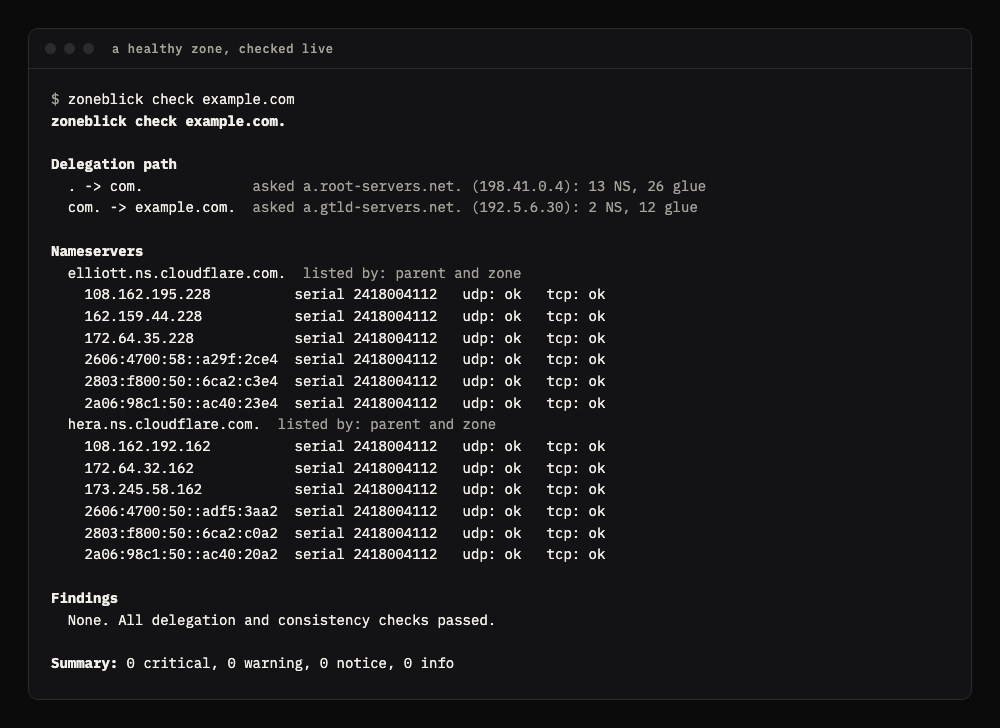
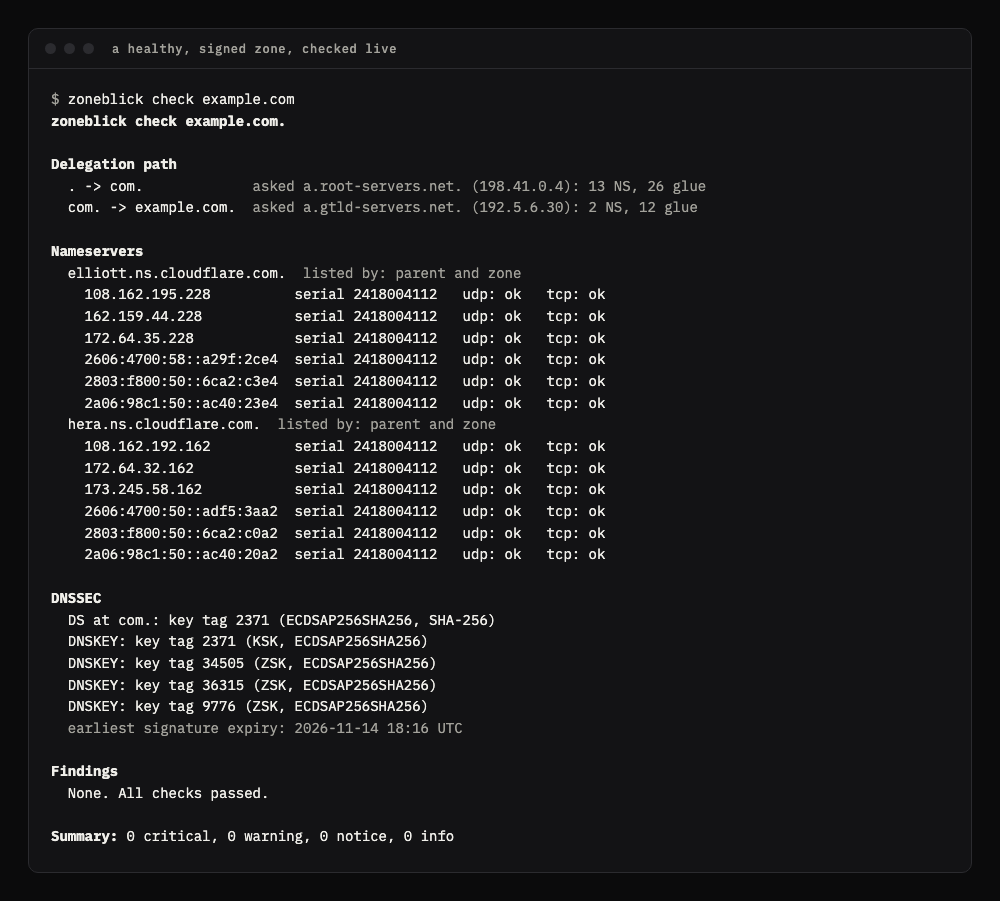
Release 0.3.0: DNSSEC checks (beta)

Changed region(s): [[0.031, 0.0302, 0.713, 0.9368]]

diff --git a/docs/index.html b/docs/index.html
@@ -403,7 +403,7 @@ footer .grid{row-gap:24px}
         <h2>Five kinds of trouble, one pass.</h2>
         <p class="intro">Each check has a stable ID, a severity, and the evidence behind it. No recursive resolver sits in the middle, so you see what the authoritative servers really say.</p>
         <p class="tier"><b>Light run</b><span>Hourly. Twenty-six checks across the whole fleet.</span></p>
-        <p class="tier"><b>Working today</b><span>Delegation and consistency: ten checks, in the <span class="mono">check</span> and <span class="mono">run</span> commands. With <span class="mono">run</span>, consistency covers every name you list. DNSSEC, mail and policy, and takeover are planned.</span></p>
+        <p class="tier"><b>Working today</b><span>Delegation, consistency and DNSSEC: fifteen checks, in the <span class="mono">check</span> and <span class="mono">run</span> commands. The DNSSEC checks are beta. With <span class="mono">run</span>, consistency covers every name you list. Mail and policy, and takeover, are planned.</span></p>
         <div class="checks">
           <article>
             <div class="label">DEL</div>
@@ -534,7 +534,7 @@ footer .grid{row-gap:24px}
         <div class="run two">
           <article class="wide">
             <h3>Download a binary</h3>
-            <p>Release <a href="https://github.com/cschweda/zoneblick/releases/tag/v0.2.0">v0.2.0</a> has ready-built binaries for Linux, macOS and Windows. Pick your system, paste the commands into a terminal, and the last line runs your first check. Each release also has a <span class="mono">SHA256SUMS</span> file; the <a href="https://github.com/cschweda/zoneblick#install">README</a> shows how to verify a download.</p>
+            <p>Release <a href="https://github.com/cschweda/zoneblick/releases/tag/v0.3.0">v0.3.0</a> has ready-built binaries for Linux, macOS and Windows. Pick your system, paste the commands into a terminal, and the last line runs your first check. Each release also has a <span class="mono">SHA256SUMS</span> file; the <a href="https://github.com/cschweda/zoneblick#install">README</a> shows how to verify a download.</p>
             <div class="tabs">
               <div class="tablist" role="tablist" aria-label="Operating system">
                 <button type="button" role="tab" id="tab-linux" aria-controls="panel-linux" aria-selected="true">Linux</button>
@@ -543,7 +543,7 @@ footer .grid{row-gap:24px}
               </div>
               <div class="panel on" role="tabpanel" id="panel-linux" aria-labelledby="tab-linux">
                 <h4 class="ptitle">Linux</h4>
-<pre tabindex="0">V=v0.2.0
+<pre tabindex="0">V=v0.3.0
 T=$(uname -m)-unknown-linux-musl
 
 curl -LO https://github.com/cschweda/zoneblick/releases/download/$V/zoneblick-$V-$T.tar.gz
@@ -555,7 +555,7 @@ zoneblick check example.org</pre>
               </div>
               <div class="panel" role="tabpanel" id="panel-macos" aria-labelledby="tab-macos">
                 <h4 class="ptitle">macOS</h4>
-<pre tabindex="0">V=v0.2.0
+<pre tabindex="0">V=v0.3.0
 A=$(uname -m); [ "$A" = arm64 ] && A=aarch64
 T=$A-apple-darwin
 
@@ -569,7 +569,7 @@ zoneblick check example.org</pre>
               </div>
               <div class="panel" role="tabpanel" id="panel-windows" aria-labelledby="tab-windows">
                 <h4 class="ptitle">Windows (PowerShell)</h4>
-<pre tabindex="0">$V = "v0.2.0"
+<pre tabindex="0">$V = "v0.3.0"
 $T = "x86_64-pc-windows-msvc"
 
 Invoke-WebRequest "https://github.com/cschweda/zoneblick/releases/download/$V/zoneblick-$V-$T.zip" -OutFile zoneblick.zip
@@ -640,7 +640,7 @@ zoneblick serve</pre>
   zoneblick serve</pre>
           </article>
         </div>
-        <p class="status"><b>Early days</b><span>v0.2.0 is an early pre-release. Checking a zone, storing runs and <span class="mono">diff</span> work today. The daemon and Docker commands show the planned interface.</span></p>
+        <p class="status"><b>Early days</b><span>v0.3.0 is an early pre-release. Checking a zone, including DNSSEC, storing runs and <span class="mono">diff</span> work today. The daemon and Docker commands show the planned interface.</span></p>
       </div>
     </div>
   </section>

diff --git a/src/output/human.rs b/src/output/human.rs
@@ -199,7 +199,7 @@ fn server_line(probes: &[&ServerProbe]) -> String {
 fn findings(w: &mut String, st: &Style, report: &Report) {
     let _ = writeln!(w, "{}", st.bold("Findings"));
     if report.findings.is_empty() {
-        let _ = writeln!(w, "  None. All delegation and consistency checks passed.");
+        let _ = writeln!(w, "  None. All checks passed.");
         let _ = writeln!(w);
         return;
     }
@@ -412,8 +412,9 @@ fn dnssec(w: &mut String, st: &Style, report: &Report) {
     } else if keys.is_empty() {
         let _ = writeln!(w, "  DNSKEY: none; the zone is not signed");
     } else {
-        let keys: Vec<String> = keys.into_iter().collect();
-        let _ = writeln!(w, "  DNSKEY: {}", keys.join("; "));
+        for key in keys {
+            let _ = writeln!(w, "  DNSKEY: {key}");
+        }
         let soonest = d
             .servers
             .iter()

diff --git a/tests/cli.rs b/tests/cli.rs
@@ -76,10 +76,7 @@ async fn broken_zone_json_matches_the_golden_file() {
 async fn good_zone_exits_zero() {
     let out = check(&args("good.example", "good.example.json", false), false).await;
     assert_eq!(out.exit_code, 0);
-    assert!(
-        out.stdout
-            .contains("None. All delegation and consistency checks passed.")
-    );
+    assert!(out.stdout.contains("None. All checks passed."));
 }
 
 /// A real run against example.com, recorded with `--record` and replayed.

diff --git a/README.md b/README.md
@@ -2,7 +2,7 @@
 
 A self-hosted DNS zone watchdog. zoneblick asks every authoritative nameserver for every record you care about, checks the answers, and keeps a history, so you know when your DNS drifts.
 
-**Status:** Phase 1. `zoneblick check` checks a zone once. `zoneblick run` stores each run in a SQLite file and `zoneblick diff` shows what changed between runs. The daemon, alerts and web UI are not built yet. The current release, `v0.2.0`, is an early pre-release.
+**Status:** Phase 2. `zoneblick check` checks a zone once: delegation, nameserver consistency and DNSSEC. `zoneblick run` stores each run in a SQLite file and `zoneblick diff` shows what changed between runs. The daemon, alerts and web UI are not built yet. The current release, `v0.3.0`, is an early pre-release.
 
 - Website: https://zoneblick.com
 - Demo with sample data: https://zoneblick.com/demo.html
@@ -12,11 +12,11 @@ A self-hosted DNS zone watchdog. zoneblick asks every authoritative nameserver f
 
 A check of a deliberately broken test zone. One nameserver refuses queries for the zone, and the other two serve different SOA serials:
 
-![Terminal output of zoneblick check for a broken zone: one critical finding, DEL-02, for a lame nameserver, and one warning, CON-01, for mismatched SOA serials](screenshots/check-findings.png)
+![Terminal output of zoneblick check for a broken, unsigned zone: one critical finding, DEL-02, for a lame nameserver, and one warning, CON-01, for mismatched SOA serials](screenshots/check-findings.png)
 
-A healthy zone, checked live:
+A healthy, signed zone, checked live:
 
-![Terminal output of zoneblick check for example.com: the delegation path from the root, twelve nameserver addresses all answering over UDP and TCP, and no findings](screenshots/check-clean.png)
+![Terminal output of zoneblick check for example.com: the delegation path from the root, twelve nameserver addresses all answering over UDP and TCP, the DS record and DNSSEC keys, and no findings](screenshots/check-clean.png)
 
 What changed between two stored runs of a zone:
 
@@ -52,7 +52,7 @@ There are two ways to install zoneblick: download a binary, or build it from sou
 
 ### Download a binary
 
-Each release on the [releases page](https://github.com/cschweda/zoneblick/releases) has a ready-built binary for these systems. The current release is `v0.2.0`.
+Each release on the [releases page](https://github.com/cschweda/zoneblick/releases) has a ready-built binary for these systems. The current release is `v0.3.0`.
 
 | System | File name ends in |
 |---|---|
@@ -64,12 +64,12 @@ Each release on the [releases page](https://github.com/cschweda/zoneblick/releas
 
 The Linux binaries are statically linked, so they run on any distribution with no other packages. The Windows binary also runs on ARM PCs through emulation.
 
-Each set of commands below downloads the binary, installs it and runs a first check. Change `v0.2.0` to install another release.
+Each set of commands below downloads the binary, installs it and runs a first check. Change `v0.3.0` to install another release.
 
 **Linux**
 
 ```
-V=v0.2.0
+V=v0.3.0
 T=$(uname -m)-unknown-linux-musl
 
 curl -LO https://github.com/cschweda/zoneblick/releases/download/$V/zoneblick-$V-$T.tar.gz
@@ -82,7 +82,7 @@ zoneblick check example.org
 **macOS**
 
 ```
-V=v0.2.0
+V=v0.3.0
 A=$(uname -m); [ "$A" = arm64 ] && A=aarch64
 T=$A-apple-darwin
 
@@ -97,7 +97,7 @@ zoneblick check example.org
 **Windows (PowerShell)**
 
 ```
-$V = "v0.2.0"
+$V = "v0.3.0"
 $T = "x86_64-pc-windows-msvc"
 
 Invoke-WebRequest "https://github.com/cschweda/zoneblick/releases/download/$V/zoneblick-$V-$T.zip" -OutFile zoneblick.zip
@@ -170,7 +170,7 @@ zoneblick check example.com
 
 Or, without installing, run it from a checkout with `cargo run -- check example.com`.
 
-`check` resolves the zone from the root servers, asks every authoritative nameserver directly over UDP and TCP, IPv4 and IPv6, and reports what is wrong. It needs no config file and no database, and it never uses your system resolver for zone data.
+`check` resolves the zone from the root servers, asks every authoritative nameserver directly over UDP and TCP, IPv4 and IPv6, reads the zone's DNSSEC keys and signatures, and reports what is wrong. It needs no config file and no database, and it never uses your system resolver for zone data.
 
 ```
 zoneblick check example.com.
@@ -184,8 +184,14 @@ Nameservers
     108.162.195.228          serial 2418004112   udp: ok   tcp: ok
     ...
 
+DNSSEC
+  DS at com.: key tag 2371 (ECDSAP256SHA256, SHA-256)
+  DNSKEY: key tag 2371 (KSK, ECDSAP256SHA256)
+  DNSKEY: key tag 34505 (ZSK, ECDSAP256SHA256)
+  earliest signature expiry: 2026-11-14 18:16 UTC
+
 Findings
-  None. All delegation and consistency checks passed.
+  None. All checks passed.
 
 Summary: 0 critical, 0 warning, 0 notice, 0 info
 ```
@@ -312,12 +318,19 @@ For `diff`: `0` nothing changed, `1` something changed, `3` the command failed (
 | CON-03 | Server answers over UDP but not over TCP | warning |
 | CON-04 | Server does not answer on a published IPv6 address | notice |
 | CON-05 | Server mishandles EDNS or truncation | notice |
+| SEC-01 | The parent has a DS record but a nameserver serves no matching DNSKEY, so the zone is bogus | critical |
+| SEC-02 | A signature has expired, or is close to expiring | critical / warning |
+| SEC-03 | The zone has DNSKEY records but the parent has no DS: signed but not chained | notice |
+| SEC-04 | A weak or deprecated algorithm or digest, such as RSA/SHA-1 or a SHA-1 DS | warning |
+| SEC-05 | Nameservers serve different keys, or only some sign the SOA | warning |
 
 DEL-06 (nameserver's domain unregistered or expired) needs registry data and is a stub. If IPv6 does not work on your machine, CON-04 is skipped and one `info` finding says so.
 
+**The DNSSEC checks are beta.** They read the DS record at the parent, each nameserver's DNSKEY set, and the dates on the signatures over the DNSKEY and SOA records. They check that the DS matches a key (key tag, algorithm and SHA-256 or SHA-384 digest) but do not yet verify the signatures themselves, so a zone with a valid-looking chain and a corrupt signature is not caught. For SEC-02, "close to expiring" means within seven days, or within a quarter of the signature's own lifetime when that is shorter, so zones signed on the fly with one- or two-day signatures do not warn constantly. An unsigned zone produces no DNSSEC findings.
+
 ### Politeness
 
-At most 16 queries are in flight at once and no server address gets more than 5 queries per second. UDP queries time out after 3 seconds and TCP after 5; a timed-out query is retried twice, after 0.5 and 1 second. A check sends five queries to each nameserver address. A stored run adds six queries per name to each address that answered.
+At most 16 queries are in flight at once and no server address gets more than 5 queries per second. UDP queries time out after 3 seconds and TCP after 5; a timed-out query is retried twice, after 0.5 and 1 second. A check sends seven queries to each nameserver address (five probes and two for DNSSEC) and one to the parent for the DS record. A stored run adds six queries per name to each address that answered.
 
 ## JSON output
 
@@ -332,6 +345,7 @@ At most 16 queries are in flight at once and no server address gets more than 5 
 | `delegation_path` | Referrals from the root down. Each has `from_zone`, `to_zone`, `server_name`, `server_address`, `ns` and `glue` (`name`, `address`) |
 | `nameservers` | One per NS hostname: `name`, `in_parent`, `in_child`, `glue`, `resolved`, `cname`, `resolve_error` |
 | `probes` | Every query to every nameserver address: `ns_name`, `address`, `qtype`, `transport`, `edns`, `outcome` |
+| `dnssec` | `parent_ds` (the DS records one parent server served, or an `error`) and `servers` (per address: `dnskeys`, `dnskey_sigs`, `soa_sigs`) |
 | `records` | Only from `run`: one entry per name, type and server, with `name`, `qtype`, `ns_name`, `address`, `transport` and `outcome` |
 | `findings` | See below |
 | `summary` | Counts: `critical`, `warning`, `notice`, `info` |
@@ -355,6 +369,11 @@ Each finding has `check_id`, `severity`, `name`, `summary` (one line for people)
 | CON-04 | `ipv6_unreachable` | `ns_name`, `address`, `probes` |
 | CON-04 | `ipv6_not_tested` | `addresses` |
 | CON-05 | `edns_problem` | `ns_name`, `address`, `problems` |
+| SEC-01 | `ds_without_key` | `ds`, `servers`: list of `value` (the keys served) and `servers` |
+| SEC-02 | `signature_expiry` | `type_covered`, `key_tag`, `expiration_unix`, `seconds_left`, `servers` |
+| SEC-03 | `signed_not_chained` | `dnskeys` |
+| SEC-04 | `weak_algorithm` | `items` |
+| SEC-05 | `signatures_differ` | `variants`: list of `value` and `servers` |
 
 A full example is in [`tests/fixtures/broken.example.report.json`](tests/fixtures/broken.example.report.json); a test pins it byte for byte.
 
@@ -411,7 +430,7 @@ cargo test                 # offline
 cargo test -- --ignored    # the one test that uses the live network
 ```
 
-Tests never use the network. Checks are tested against hand-built observations, and the resolver against recorded DNS exchanges in `tests/fixtures/`, replayed through the same code path as a live run. The `broken.example`, `good.example` and `drift.example` fixtures are generated from `tests/common/mod.rs`; `example.com.json` is a recording of a real run. After an intended change, regenerate the generated files with `ZONEBLICK_REGEN=1 cargo test`.
+Tests never use the network. Checks are tested against hand-built observations, and the resolver against recorded DNS exchanges in `tests/fixtures/`, replayed through the same code path as a live run. The `broken.example`, `good.example`, `drift.example` and `signed.example` test zones are generated from `tests/common/mod.rs`; `example.com.json` is a recording of a real run. After an intended change, regenerate the generated files with `ZONEBLICK_REGEN=1 cargo test`.
 
 The same lint and tests run in CI on Linux, macOS and Windows for every push and pull request (`.github/workflows/ci.yml`).
 
@@ -420,15 +439,15 @@ The same lint and tests run in CI on Linux, macOS and Windows for every push and
 Binaries are built by GitHub Actions (`.github/workflows/release.yml`). To publish a release, set the version in `Cargo.toml`, commit, then push a matching tag:
 
 ```
-git tag v0.3.0
-git push origin v0.3.0
+git tag v0.4.0
+git push origin v0.4.0
 ```
 
 The workflow checks that the tag matches the crate version, runs the lint and tests, builds static Linux binaries (x86_64 and aarch64), macOS binaries (Apple Silicon and Intel) and a Windows binary, and attaches them to a GitHub Release with a `SHA256SUMS` file. Each archive holds the binary, this README and both license files. The macOS and Windows binaries are not signed. Versions below 1.0 are marked as pre-releases. A pull request that changes the workflow or the Cargo files runs the same builds without publishing.
 
 ## What it will do
 
-- **Zone health:** delegation, nameserver consistency, DNSSEC.
+- **Zone health:** delegation, nameserver consistency, DNSSEC. All three have checks now; the deeper DNSSEC checks and signature verification are still to come.
 - **Exposure:** dangling records and subdomain-takeover risk.
 - **Drift history:** every run stored and compared with the last. The store and the diff exist now; scheduled runs and alerts do not.
 
@@ -447,6 +466,7 @@ One binary, one config file, one SQLite file, on your own server.
 | `src/resolver/` | Iterative resolver, per-server probing, transport, record and replay |
 | `src/checks/` | The checks: pure functions over observations, no I/O |
 | `src/output/` | Terminal and JSON rendering |
+| `src/dnssec.rs` | DNSSEC record parsing, key tags and DS digests |
 | `src/store.rs` | The SQLite store: snapshots, record sets, finding lifecycle |
 | `src/diff.rs` | The diff engine: pure functions over two stored runs |
 | `src/cli.rs` | The commands |

diff --git a/DECISIONS.md b/DECISIONS.md
@@ -71,3 +71,23 @@ Choices made during implementation where `DESIGN.md` was silent or loose. One li
 - Retention (thinning old runs) is not implemented; every run is kept.
 - The database layout version is kept in SQLite's `user_version`; a database from a newer zoneblick is refused.
 - `DESIGN.md` now records the license decision: MIT or Apache-2.0.
+
+## Phase 2
+
+- `hickory-proto` stays without its DNSSEC feature (which would pull in a crypto library); DS, DNSKEY and RRSIG records are parsed from raw record data in `src/dnssec.rs`.
+- The SEC checks read keys, DS records and signature dates; they do not verify signatures cryptographically yet. They are labelled beta in the README and on the site, as the design asks.
+- A DS matches a DNSKEY when key tag and algorithm agree and the SHA-256 or SHA-384 digest is right; a SHA-1 or GOST DS is matched on key tag and algorithm only (and reported as weak by SEC-04).
+- The DS set is read from the one parent server that gave the referral, with the DO bit set.
+- Each responding nameserver address gets two more queries with the DO bit: DNSKEY and SOA. Both `check` and `run` collect DNSSEC data.
+- SEC-01 is judged per server: a server whose DNSKEY set contains no key any DS points at is reported.
+- SEC-02 measures time from the start of the run and looks at the signatures over the DNSKEY and SOA record sets.
+- SEC-02 warns within seven days of expiry, or within a quarter of the signature's lifetime when that is shorter; found necessary because zones signed on the fly (for example by Cloudflare) carry signatures valid for only a day or two.
+- SEC-02's identity as a finding is the covered record type, not the dates, so one expiring signature is one finding across runs.
+- SEC-03 fires only when the parent positively answered "no DS"; a parent that did not answer proves nothing.
+- SEC-04 follows RFC 8624: RSA/MD5, DSA, RSA/SHA-1 (with or without NSEC3) and GOST are weak, as are SHA-1 and GOST DS digests.
+- SEC-05 compares, across servers, the DNSKEY key tags and which keys sign the SOA.
+- An unsigned zone (no DS, no DNSKEY) produces no SEC findings.
+- Queries carry a `dnssec` flag for the DO bit; it is left out of fixture files when false, so older fixtures still load.
+- The database layout moved to version 2 (a `dnssec_json` column on runs); older databases are upgraded in place on open.
+- The JSON report gained a `dnssec` field; `schema_version` stays 1 because fields were only added.
+- The terminal output's clean message is now "All checks passed."
